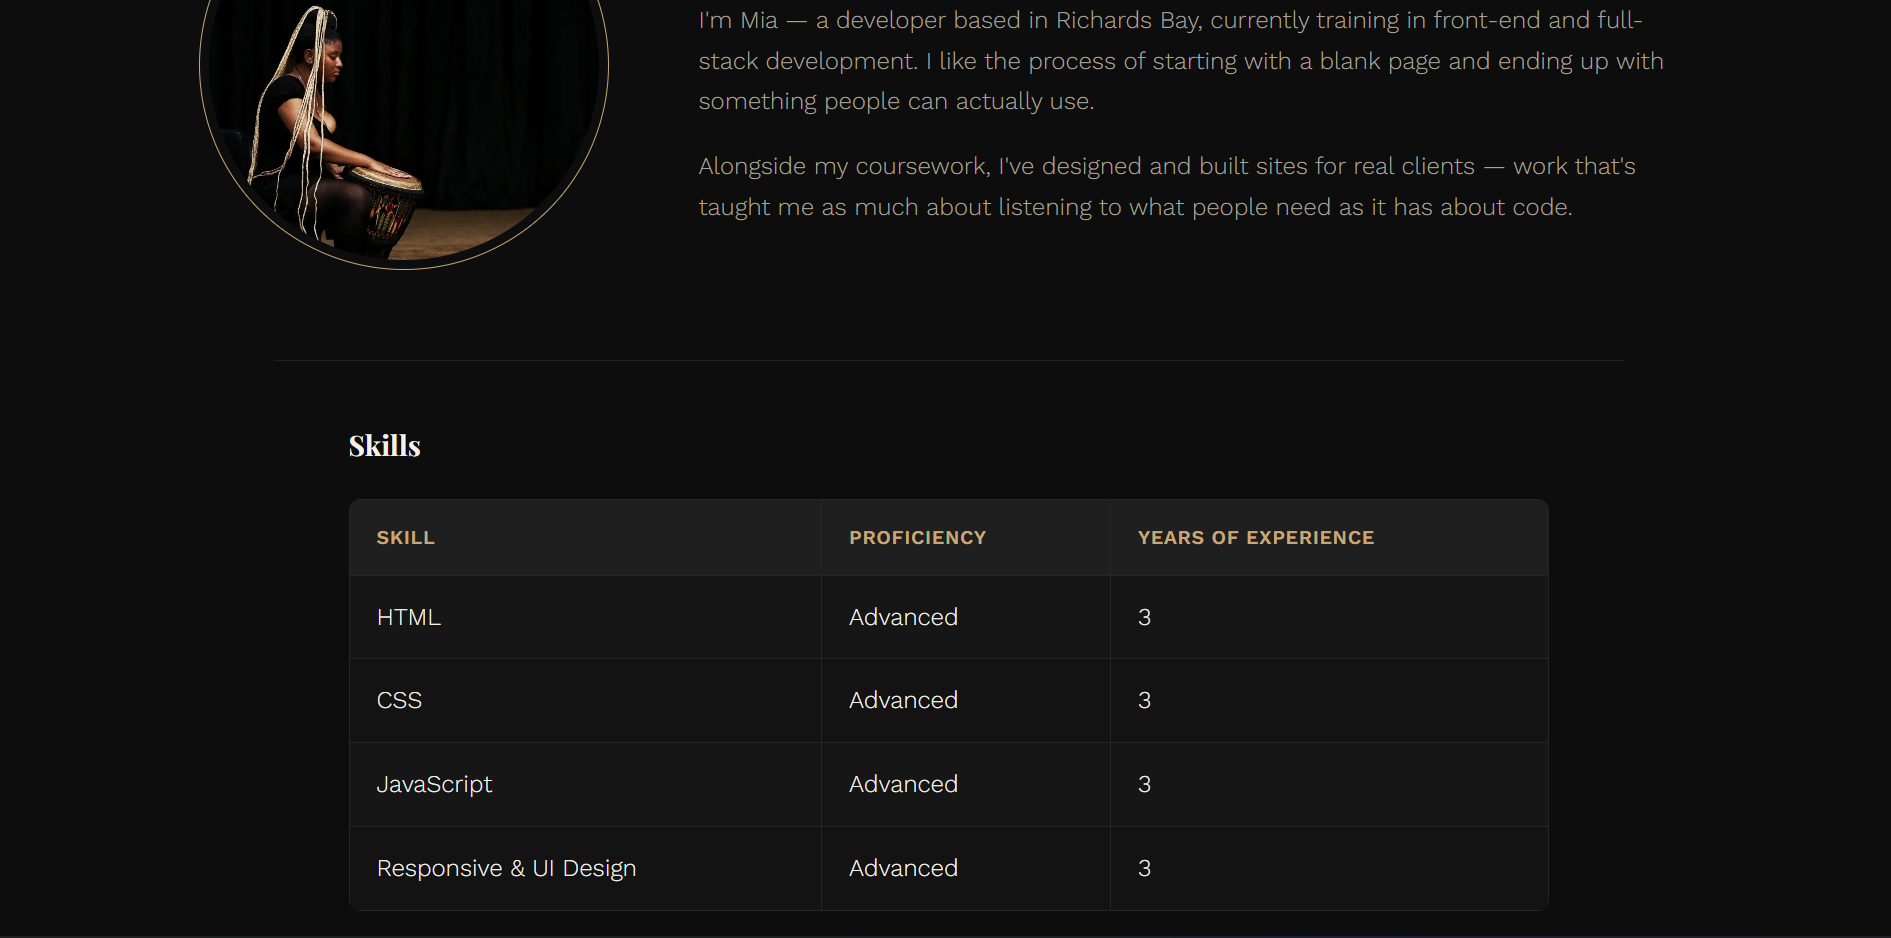
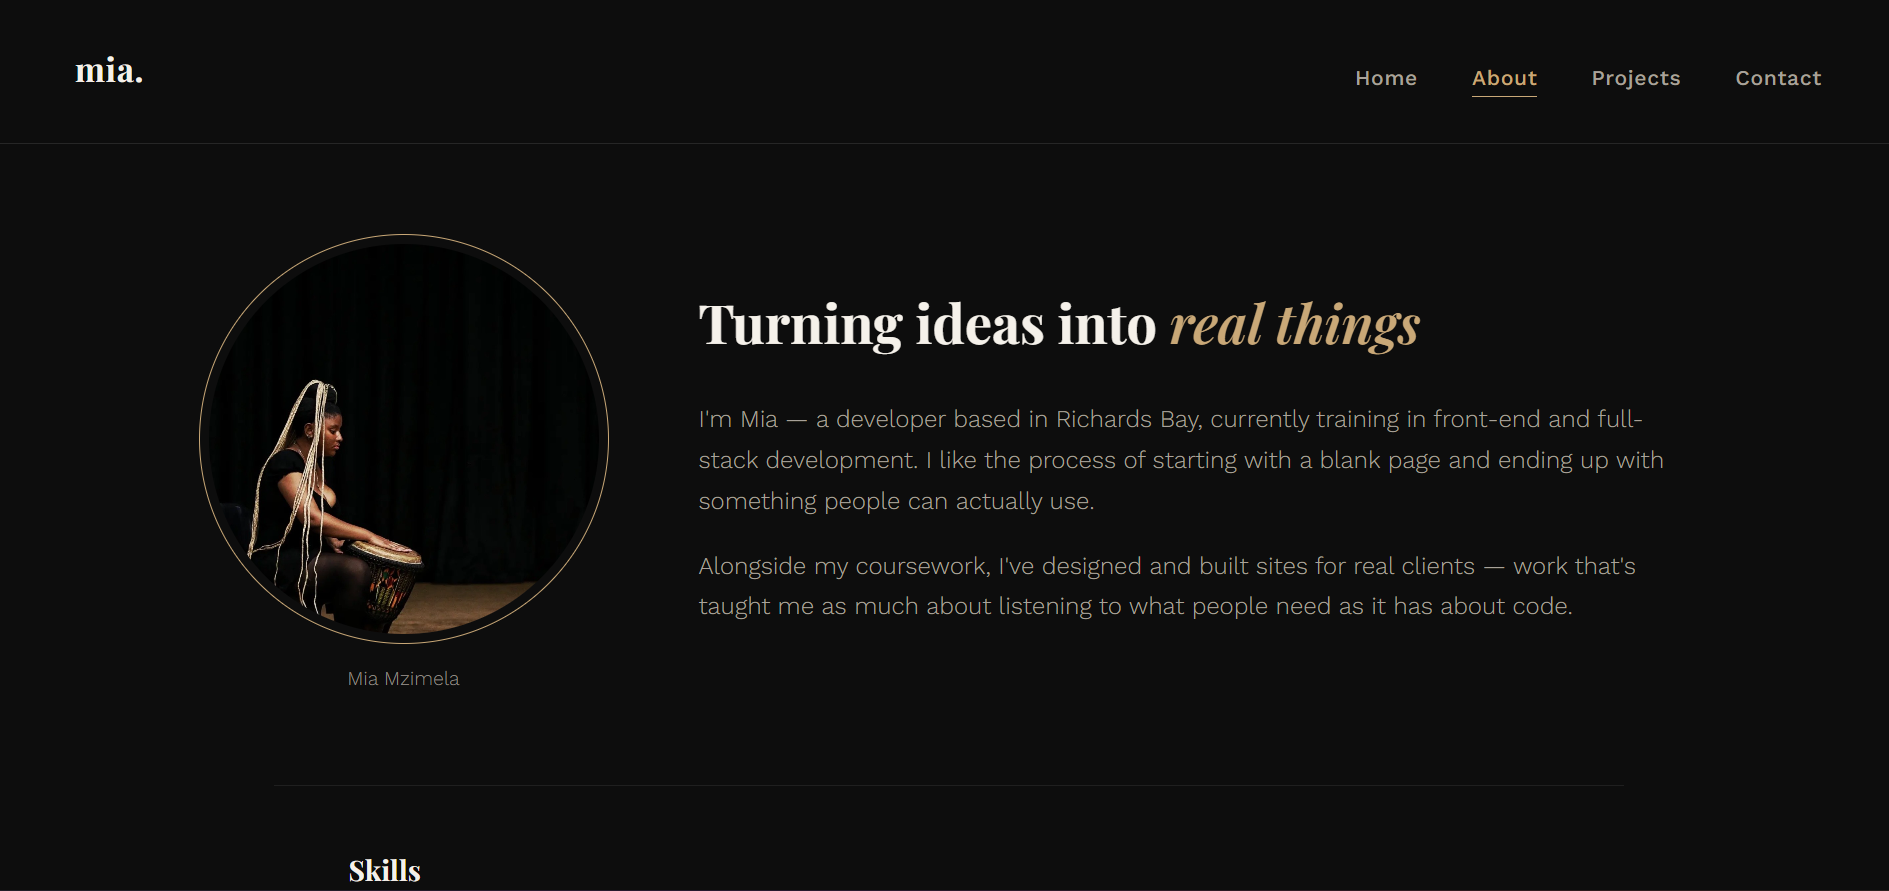
Updated README file screenshots.

diff --git a/README.md b/README.md
@@ -66,7 +66,7 @@ Every image has descriptive alt text, every form input has an associated `<label
 
 ![alt text](<screenshots/Navigation Bar.png>)
 
-![alt text](<screenshots/Skills Table.png>)
+![alt text](screenshots/SkillsTable.png)
 
 ![alt text](<screenshots/Contact Form.png>)
 
